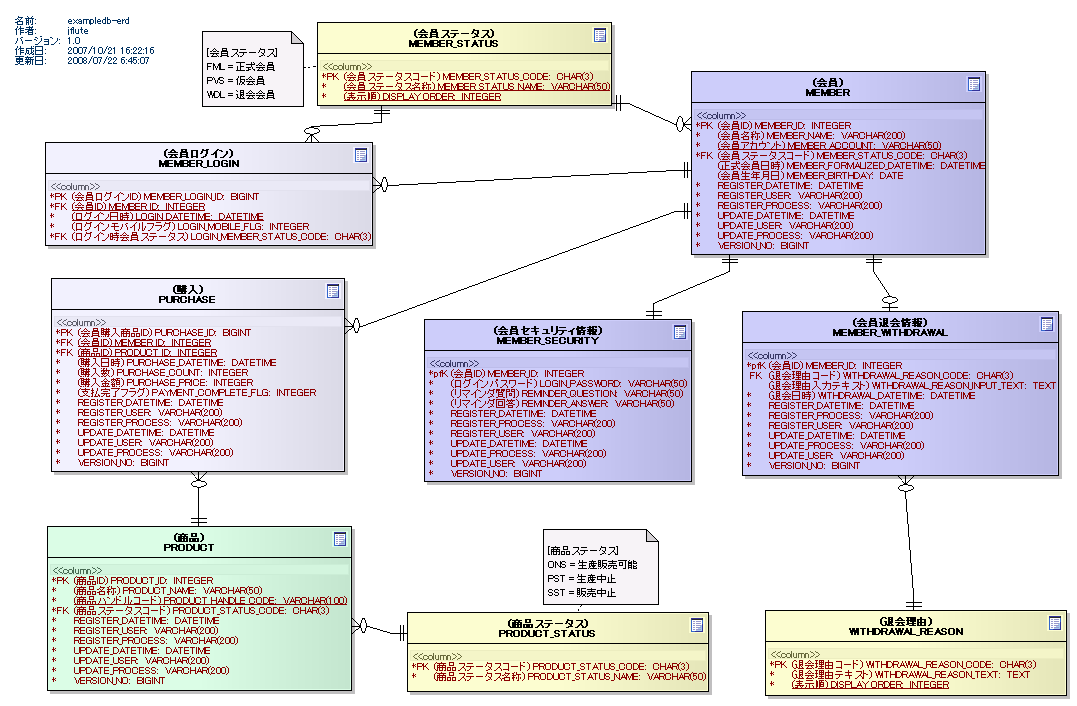
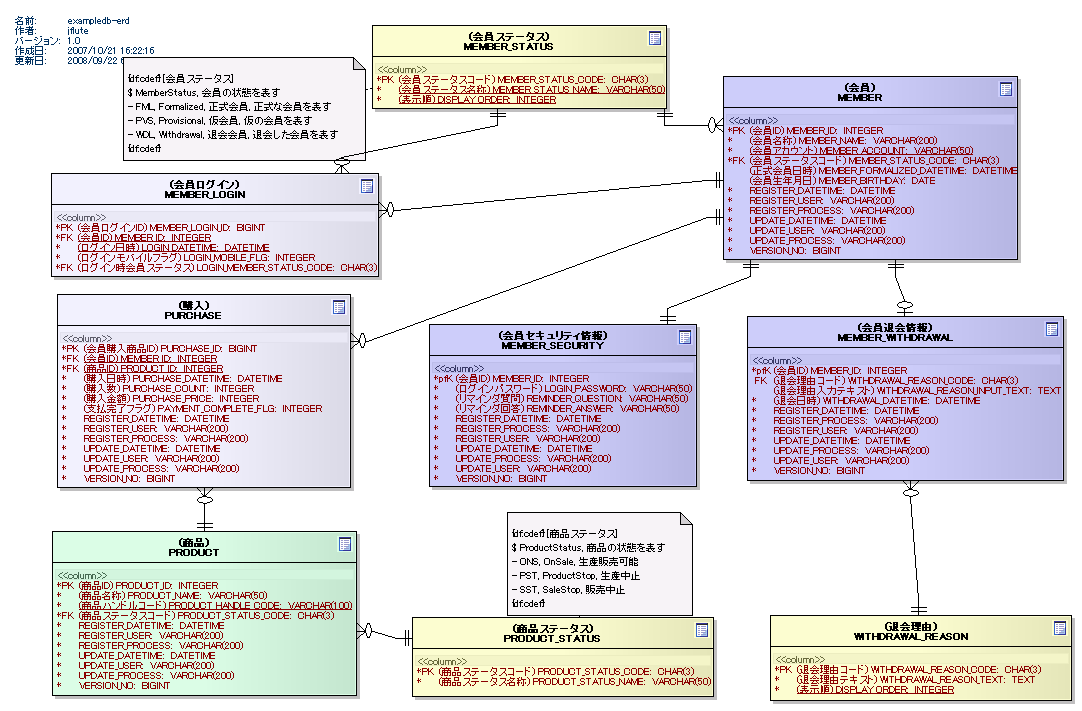
DBFlute-0.8.0-SNAPSHOT
git-svn-id: https://www.seasar.org/svn/dbflute/trunk/www@6839 b65849cc-091c-4ecd-8ca6-0d794ba8cb45

diff --git a/view/exampledb/EARoot/EA1.html b/view/exampledb/EARoot/EA1.html
@@ -19,18 +19,18 @@ function initPage(src) {
 <img src="EA2.png" usemap="#EA2" border="0" />
 
 <MAP NAME="EA2">
-<area shape="rect" coords="543,529,658,604" href="EA3.html">
-<area shape="rect" coords="202,31,303,106" href="EA4.html">
-<area shape="rect" coords="45,142,373,246" href="EA8.html">
-<area shape="rect" coords="407,612,709,692" href="EA13.html">
-<area shape="rect" coords="765,610,1067,696" href="EA15.html">
-<area shape="rect" coords="742,311,1059,476" href="EA11.html">
-<area shape="rect" coords="317,22,612,106" href="EA10.html">
+<area shape="rect" coords="507,512,692,615" href="EA3.html">
+<area shape="rect" coords="123,57,365,160" href="EA4.html">
+<area shape="rect" coords="51,173,379,277" href="EA8.html">
+<area shape="rect" coords="412,617,714,697" href="EA13.html">
+<area shape="rect" coords="770,615,1072,701" href="EA15.html">
+<area shape="rect" coords="747,316,1064,481" href="EA11.html">
+<area shape="rect" coords="372,25,667,109" href="EA10.html">
 <area shape="rect" coords="10,10,160,70" href="EA5.html">
-<area shape="rect" coords="47,526,352,691" href="EA12.html">
-<area shape="rect" coords="51,278,345,472" href="EA14.html">
-<area shape="rect" coords="424,319,692,482" href="EA9.html">
-<area shape="rect" coords="691,71,986,255" href="EA7.html">
+<area shape="rect" coords="52,531,357,696" href="EA12.html">
+<area shape="rect" coords="57,294,351,488" href="EA14.html">
+<area shape="rect" coords="429,324,697,487" href="EA9.html">
+<area shape="rect" coords="723,76,1018,260" href="EA7.html">
 </MAP>
 
 	<div class="ObjectTitle">exampledb-erd : クラス図</div>
@@ -41,7 +41,7 @@ function initPage(src) {
 		</tr>
 		<tr>
 			<td width="15%" class="ObjectDetailsTopic">更新日:</td>
-			<td width="85%" class="ObjectDetailsValue">2008/07/22 6:45:07</td>
+			<td width="85%" class="ObjectDetailsValue">2008/09/22 6:44:25</td>
 		</tr>
 		<tr style="padding-top: 10px;">
 			<td width="15%" class="ObjectDetailsTopic"><img src="../images/plus03.gif" align="absmiddle" id="proj" onclick="parent.toggleData(this.id)" />プロジェクト:</td>

diff --git a/view/exampledb/EARoot/EA4.html b/view/exampledb/EARoot/EA4.html
@@ -24,7 +24,7 @@ function initPage(src) {
 		</tr>
 		<tr>
 			<td class="ObjectDetailsTopic">更新日:</td>
-			<td class="ObjectDetailsValue">2008/07/22 6:42:40</td>
+			<td class="ObjectDetailsValue">2008/09/22 8:17:28</td>
 		</tr>
 		<tr style="height: 10px"><td colspan="2"></td></tr>
 		<tr>
@@ -64,7 +64,7 @@ function initPage(src) {
 			<td class="ObjectDetailsValue"><a href="EA1.html">exampledb-erd</a></td>
 		</tr>
 	</table>
-	<div class="ObjectDetailsNotes">&lt;p&gt;[&#20250;&#21729;&#12473;&#12486;&#12540;&#12479;&#12473;]&lt;br/&gt;&lt;/p&gt;&lt;p&gt;FML = &#27491;&#24335;&#20250;&#21729;&lt;br/&gt;&lt;/p&gt;&lt;p&gt;PVS = &#20206;&#20250;&#21729;&lt;br/&gt;&lt;/p&gt;&lt;p&gt;WDL = &#36864;&#20250;&#20250;&#21729;&lt;br/&gt;&lt;/p&gt;</div>
+	<div class="ObjectDetailsNotes">&lt;p&gt;{df:cdef} [&#20250;&#21729;&#12473;&#12486;&#12540;&#12479;&#12473;]&lt;br/&gt;&lt;/p&gt;&lt;p&gt;$ MemberStatus, &#20250;&#21729;&#12398;&#29366;&#24907;&#12434;&#34920;&#12377;&lt;br/&gt;&lt;/p&gt;&lt;p&gt;- FML, Formalized, &#27491;&#24335;&#20250;&#21729;, &#27491;&#24335;&#12394;&#20250;&#21729;&#12434;&#34920;&#12377;&lt;br/&gt;&lt;/p&gt;&lt;p&gt;- PVS, Provisional, &#20206;&#20250;&#21729;, &#20206;&#12398;&#20250;&#21729;&#12434;&#34920;&#12377;&lt;br/&gt;&lt;/p&gt;&lt;p&gt;- WDL, Withdrawal, &#36864;&#20250;&#20250;&#21729;, &#36864;&#20250;&#12375;&#12383;&#20250;&#21729;&#12434;&#34920;&#12377;&lt;br/&gt;&lt;/p&gt;&lt;p&gt;{df:cdef}&lt;br/&gt;&lt;/p&gt;</div>
 
 <div class="pageFooter"></div>
  

diff --git a/view/exampledb/EARoot/EA3.html b/view/exampledb/EARoot/EA3.html
@@ -24,7 +24,7 @@ function initPage(src) {
 		</tr>
 		<tr>
 			<td class="ObjectDetailsTopic">更新日:</td>
-			<td class="ObjectDetailsValue">2008/07/22 6:45:02</td>
+			<td class="ObjectDetailsValue">2008/09/22 8:17:37</td>
 		</tr>
 		<tr style="height: 10px"><td colspan="2"></td></tr>
 		<tr>
@@ -64,7 +64,7 @@ function initPage(src) {
 			<td class="ObjectDetailsValue"><a href="EA1.html">exampledb-erd</a></td>
 		</tr>
 	</table>
-	<div class="ObjectDetailsNotes">&lt;p&gt;[&#21830;&#21697;&#12473;&#12486;&#12540;&#12479;&#12473;]&lt;br/&gt;&lt;/p&gt;&lt;p&gt;ONS = &#29983;&#29987;&#36009;&#22770;&#21487;&#33021;&lt;br/&gt;&lt;/p&gt;&lt;p&gt;PST = &#29983;&#29987;&#20013;&#27490;&lt;br/&gt;&lt;/p&gt;&lt;p&gt;SST = &#36009;&#22770;&#20013;&#27490;&lt;br/&gt;&lt;/p&gt;</div>
+	<div class="ObjectDetailsNotes">&lt;p&gt;{df:cdef} [&#21830;&#21697;&#12473;&#12486;&#12540;&#12479;&#12473;]&lt;br/&gt;&lt;/p&gt;&lt;p&gt;$ ProductStatus, &#21830;&#21697;&#12398;&#29366;&#24907;&#12434;&#34920;&#12377;&lt;br/&gt;&lt;/p&gt;&lt;p&gt;- ONS, OnSale, &#29983;&#29987;&#36009;&#22770;&#21487;&#33021;&lt;br/&gt;&lt;/p&gt;&lt;p&gt;- PST, ProductStop, &#29983;&#29987;&#20013;&#27490;&lt;br/&gt;&lt;/p&gt;&lt;p&gt;- SST, SaleStop, &#36009;&#22770;&#20013;&#27490;&lt;br/&gt;&lt;/p&gt;&lt;p&gt;{df:cdef}&lt;br/&gt;&lt;/p&gt;</div>
 
 <div class="pageFooter"></div>
  
